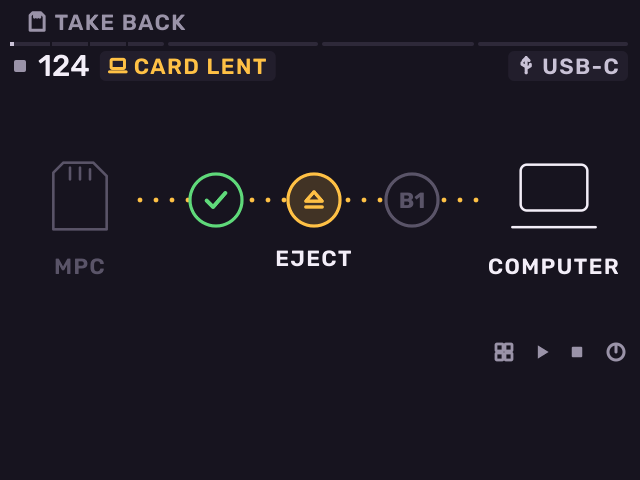
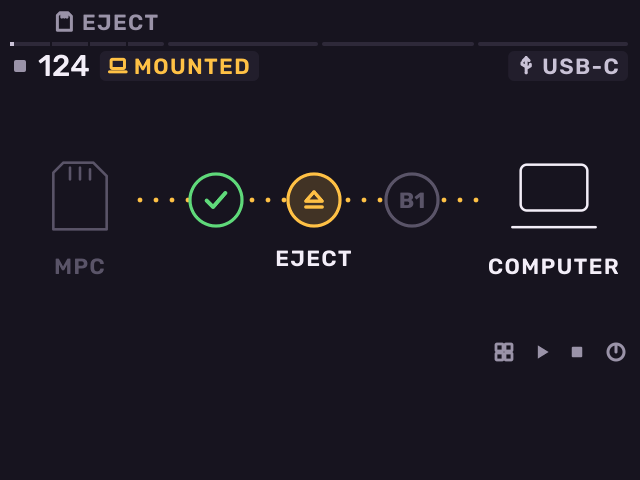
fix(melodee): card access test and guide screenshot use the mounted and eject wording

Changed region(s): [[0.0312, 0.0, 0.3125, 0.0625], [0.1875, 0.125, 0.4375, 0.1562]]

diff --git a/src/melodee/pages/scenes_page.cpp b/src/melodee/pages/scenes_page.cpp
@@ -1,0 +1,140 @@
+// SPDX-License-Identifier: AGPL-3.0-only
+// Copyright (C) 2026 Kerem Kilic (Ellic Studio)
+// SCENES (roadmap P5; B1 again on Patterns, B1 here back to it): the bank's sixteen scenes laid out
+// as the pads sit (pad 1 bottom left; Pad Bank another bank of
+// them), each a column of patterns, pattern n of every track. A pad launches its scene: pattern n on each track holding notes
+// there (and on the selected track) at the next bar, the scene's tempo with
+// it; Erase + pad clears its name and tempo. Push names the scene in hand,
+// the wheel sets its tempo (below 30 BPM: none of its own). The cards are the
+// selected track's pattern's follow action (model/follow.h): K1 FOLLOW, K2
+// AFTER (bars or plays), K3 CHANCE, Shift + K1 OR (the second action, on the
+// odds the first leaves); Shift + B3 ALL puts it on every track's pattern in its
+// column. Minus / Plus move the track. Beside the grid: the scene in hand's
+// name and tempo, the follow action in glyphs, and a dot a track (in the
+// scene, playing something else, stopped by a follow action).
+#include "melodee/pages/common.h"
+#include "melodee/pages/pages.h"
+#include "melodee/ui/widgets.h"
+#include <algorithm>
+
+namespace melodee {
+namespace {
+using namespace ui;
+
+juce::String tempo_text(unsigned tenths) {
+    return juce::String(tenths / 10) + (tenths % 10 ? "." + juce::String(tenths % 10) : juce::String());
+}
+
+// The follow action as glyphs: "NEXT", "→ 4 BARS", the second on its odds under it.
+void draw_follow(Paint& p, const Snapshot& s, float x, float y, float w, juce::Colour c) {
+    const auto& f = s.pattern.follow;
+    p.text("T" + juce::String(s.ui.track % track_count + 1) + " P" + juce::String(s.track().pattern % pattern_count + 1), x, y, w, 12,
+           caps_text(colour::mid));
+    if (!f.on()) {
+        icon(p, Icon::Loop, x, y + 16, 12, colour::dim, 1.3f); // it plays on
+        p.text("OFF", x + 16, y + 14, w - 16, 16, plain(colour::dim, type::body, Weight::Medium));
+        return;
+    }
+    juce::String after = juce::String(f.count) + (f.plays ? (f.count == 1 ? " PLAY" : " PLAYS") : (f.count == 1 ? " BAR" : " BARS"));
+    juce::String first = juce::String(follow_name(f.action)) + (f.chance < 100 ? " " + juce::String(f.chance) + "%" : juce::String());
+    p.text(first, x, y + 14, w, 16, p.fit(first, plain(c, type::body, Weight::SemiBold), w, type::floor));
+    if (f.other && f.chance < 100)
+        p.text(juce::String(follow_name(f.other)) + " " + juce::String(100 - f.chance) + "%", x, y + 30, w, 14, plain(colour::sec, type::small, Weight::Medium));
+    p.text(juce::String::fromUTF8("\xe2\x86\x92 ") + after, x, y + (f.other && f.chance < 100 ? 44 : 30), w, 14, plain(colour::sec, type::small, Weight::Medium));
+}
+
+void draw(Paint& p, const Snapshot& s) {
+    auto c = colour_of(s);
+    unsigned hand = s.ui.scene % pattern_count;
+    const auto& scene = s.project.scenes[hand];
+    Header h = header_of(s);
+    h.left.push_back(chip("SCENES", c));
+    h.left.push_back(bank_pill(s));
+    h.right.push_back(tag_of(s, s.ui.track));
+    SoftKeys keys {{"SCENES", "ROLL", "MOTION"}, 0, c}; // B1's second page: B1 again goes back to Patterns
+    keys.dots[0] = 2; keys.dot_at[0] = 1;
+    if (s.ui.shift) keys = SoftKeys {{"", "", "ALL"}, -1, c}; // Shift + B3: the follow onto every track's pattern
+    frame(p, s, keys, h);
+
+    // The scenes as the pads sit: pads 13-16 along the top, 1-4 along the bottom.
+    constexpr float cw = 41, ch = 32, gap = 3, grid_w = 4 * cw + 3 * gap, grid_h = 4 * ch + 3 * gap;
+    float gx = zone::pad, gy = zone::picture_y + (zone::picture_h - grid_h) / 2;
+    bool blink = (s.now / 150) % 2;
+    for (unsigned k = 0; k < pattern_pads; ++k) {
+        unsigned n = s.ui.pad_pattern(k), row = 3 - k / 4, column = k % 4, with = 0, on = 0, waiting = 0;
+        for (unsigned t = 0; t < track_count; ++t) {
+            const auto& tr = s.project.tracks[t];
+            if (!tr.used() || !s.sketches[t][n].notes) continue;
+            ++with;
+            bool live = s.playing ? s.playing_patterns[t] == n && s.positions[t] >= 0 : tr.pattern == n;
+            on += live;
+            waiting += s.playing && !live && tr.pattern == n;
+        }
+        float x = gx + column * (cw + gap), y = gy + row * (ch + gap);
+        bool playing = with && on == with;
+        juce::Colour text = with ? colour::sec : colour::dim;
+        if (playing) { p.fill(x, y, cw, ch, colour::text, 5); text = colour::bg; }
+        else if (waiting) { p.fill(x, y, cw, ch, colour::text.withAlpha(blink ? 0.4f : 0.12f), 5); p.ring(x, y, cw, ch, colour::text, 5, 1.5f); text = colour::text; }
+        else if (with) p.fill(x, y, cw, ch, colour::text.withAlpha(0.06f + 0.02f * float(std::min(with, 8u))), 5);
+        else p.fill(x, y, cw, ch, colour::quiet, 5);
+        if (n == hand) p.ring(x - 1, y - 1, cw + 2, ch + 2, c, 6, 1.5f);
+        const auto& sc = s.project.scenes[n];
+        p.text(juce::String(n + 1), x + 4, y + 2, cw - 8, 13, plain(text, type::small, Weight::Bold));
+        if (sc.tempo) p.fill(x + cw - 7, y + 6, 3, 3, playing ? colour::bg : colour::amber, 1.5f); // a tempo of its own
+        if (sc.name[0]) { // as much of its name as fits, as the MPC shortens names
+            auto style = plain(text, type::small, Weight::Medium);
+            juce::String name(sc.name);
+            while (name.length() > 1 && p.width(name, style) > cw - 6) name = name.dropLastCharacters(1);
+            p.text(name, x + 3, y + ch - 15, cw - 6, 13, style);
+        }
+    }
+
+    // Beside it: the scene in hand, its tempo, the follow action of the track's pattern, the tracks.
+    float x = gx + grid_w + 10, w = zone::width - zone::pad - x, y = gy;
+    juce::String title = "S" + juce::String(hand + 1) + (scene.name[0] ? " " + juce::String(scene.name) : juce::String());
+    p.text(title, x, y, w, 18, p.fit(title, plain(colour::text, type::list, Weight::SemiBold), w, type::floor));
+    icon(p, Icon::Metro, x, y + 21, 13, scene.tempo ? colour::amber : colour::dim, 1.3f);
+    p.text(scene.tempo ? tempo_text(scene.tempo) + " BPM" : juce::String::fromUTF8("\xe2\x80\x94"), x + 17, y + 19, w - 17, 16,
+           plain(scene.tempo ? colour::text : colour::dim, type::body, Weight::Medium));
+    p.fill(x, y + 40, w, 1, colour::line);
+    draw_follow(p, s, x, y + 46, w, c);
+    // A dot a track: in this scene (its colour), playing another pattern (dim), stopped by a follow action (a ring).
+    float dy = gy + grid_h - 9, dot = 6, step = w / 8;
+    for (unsigned t = 0; t < track_count; ++t) {
+        const auto& tr = s.project.tracks[t];
+        float tx = x + (t % 8) * step, ty = dy - (t < 8 ? 10 : 0);
+        if (!tr.used()) { p.fill(tx + 1, ty + 2, dot - 2, 1.5f, colour::line); continue; }
+        bool stopped = s.playing && !s.song_playing && s.positions[t] < 0;
+        bool in_scene = (s.playing ? s.playing_patterns[t] : tr.pattern) == hand;
+        if (stopped) p.ring(tx, ty, dot, dot, colour::rec, 3, 1.2f);
+        else p.fill(tx, ty, dot, dot, in_scene ? track_colour(t) : track_colour(t).withAlpha(0.3f), 3);
+    }
+}
+
+void pad(Context& c, unsigned pad, uint8_t, bool down) {
+    if (!down) return;
+    if (c.ui.erase) { c.clear_scene(c.ui.pad_pattern(pad)); return; } // Erase + pad: its name and tempo
+    c.launch_scene(c.ui.pad_pattern(pad));
+}
+
+// The wheel: the scene in hand's tempo by a BPM, from the tempo now when it has none; under 30, none of its own.
+void wheel(Context& c, int delta) {
+    unsigned hand = c.ui.scene % pattern_count;
+    int now = c.project.scenes[hand].tempo ? int(c.project.scenes[hand].tempo) : int(c.tempo_now()) / 10 * 10 - delta * 10;
+    c.set_scene_tempo(hand, now + delta * 10);
+}
+
+void push(Context& c) { c.name_scene(c.ui.scene); }
+
+void soft(Context& c, int key) {
+    if (c.ui.shift) { if (key == 2) { c.ui.shift_used = true; c.follow_to_column(); } return; } // ALL
+    if (key == 0) { c.open(PageId::Patterns); return; } // SCENES again: back to Patterns
+    seq_hub_soft(c, key);                                  // ROLL, MOTION
+}
+
+void nudge(Context& c, int way) { c.select_track(unsigned(std::clamp<int>(c.ui.track + way, 0, int(track_count) - 1))); }
+} // namespace
+
+const PageSpec scenes_page {draw, pad, wheel, push, soft, nudge};
+
+} // namespace melodee

diff --git a/src/melodee/shell/pad_lights.cpp b/src/melodee/shell/pad_lights.cpp
@@ -317,6 +317,27 @@ Look tracks_look(const PadScene& s, unsigned pad) {
     float m = meter(s, pad);
     return t.mix.solo ? white(between(dim, mid, m)) : track(pad, between(dim, mid, m));
 }
+// ---- SCENES (roadmap P5): a pad a scene, the column of patterns it launches. The one playing (every track with notes
+// there playing it) bright, one waiting for its bar blinking, the rest as many tracks as hold notes there; Erase held:
+// the scenes with a name or tempo to clear.
+Look scenes_look(const PadScene& s, unsigned pad) {
+    unsigned n = s.ui.pad_pattern(pad), with = 0, on = 0, waiting = 0; // the bank in view's
+    bool rolling = s.host.playing();
+    for (unsigned t = 0; t < track_count; ++t) {
+        const auto& tr = s.project.tracks[t];
+        if (!tr.used() || s.patterns.at[t][n].empty()) continue;
+        ++with;
+        bool live = rolling ? s.host.pattern_of(t) == n && !(s.host.stopped_tracks() >> t & 1) : tr.pattern == n;
+        on += live;
+        waiting += rolling && !live && tr.pattern == n;
+    }
+    if (s.ui.erase) return s.project.scenes[n].plain() ? Look {} : red(dim);
+    if (with && on == with) return white(full);
+    if (waiting) return (s.now / 150) % 2 ? white(mid) : white(faint);
+    if (!with) return s.project.scenes[n].plain() ? Look {} : white(faint);
+    return with == 1 ? white(faint) : with < 4 ? white(dim) : white(mid);
+}
+
 Look song_look(const PadScene& s, unsigned pad) {
     const auto& t = s.project.tracks[pad];
     if (!t.used()) return {};
@@ -759,6 +780,7 @@ void pad_looks(const PadScene& s, std::array<Look, 16>& out) {
             case PageId::Looper: look = loop_look(s, pad, false); break;
             case PageId::Tracks: look = tracks_look(s, pad); break;
             case PageId::Song: look = song_look(s, pad); break;
+            case PageId::Scenes: look = scenes_look(s, pad); break; // roadmap P5
             case PageId::StepEdit: look = s.ui.step_pads ? steps_look(s, pad) : step_edit_look(s, snd, pad); break; // the bar's steps, or the keys
             case PageId::Roll: look = roll_look(s, snd, roll, keys, pad); break;
             case PageId::TimeCorrect: look = time_correct_look(s, keys, pad); break;

diff --git a/src/melodee/shell/page_stack.cpp b/src/melodee/shell/page_stack.cpp
@@ -9,7 +9,7 @@ namespace {
 int page_group(PageId page) {
     switch (page) {
     case PageId::Stage: case PageId::Tracks: case PageId::Keys: case PageId::Pads: return 1;
-    case PageId::StepEdit: case PageId::Patterns: case PageId::Roll: case PageId::Motion: return 2;
+    case PageId::StepEdit: case PageId::Patterns: case PageId::Scenes: case PageId::Roll: case PageId::Motion: return 2;
     case PageId::Rack: case PageId::Sends: case PageId::Bus: case PageId::Master: case PageId::PadFx: return 3;
     case PageId::Trim: case PageId::PadPage: case PageId::PlayPage: case PageId::EnvelopePage:
     case PageId::FilterPage: case PageId::FollowPage: case PageId::CloudPage:
@@ -34,18 +34,18 @@ void push_back_stack(UiState& ui, PageId page) {
 
 PageId back_target(const UiState& ui) { return ui.back_depth ? ui.back_stack[ui.back_depth - 1u] : PageId::Stage; }
 
-bool seq_editor(PageId page) { return page == PageId::Patterns || page == PageId::Roll || page == PageId::Motion; }
+bool seq_editor(PageId page) { return page == PageId::Patterns || page == PageId::Scenes || page == PageId::Roll || page == PageId::Motion; }
 
 PageId seq_editor_page(const UiState& ui) {
-    static const PageId editors[] {PageId::Patterns, PageId::Roll, PageId::Motion};
+    static const PageId editors[] {PageId::Patterns, PageId::Roll, PageId::Motion, PageId::Scenes};
     unsigned kept = ui.seq_editor[ui.track % track_count];
-    if (kept >= 1 && kept <= 3) return editors[kept - 1];
+    if (kept >= 1 && kept <= 4) return editors[kept - 1];
     return PageId::Patterns;
 }
 
 void remember_editor(UiState& ui, PageId page) {
     if (!seq_editor(page)) return;
-    ui.seq_editor[ui.track % track_count] = uint8_t(page == PageId::Patterns ? 1 : page == PageId::Roll ? 2 : 3);
+    ui.seq_editor[ui.track % track_count] = uint8_t(page == PageId::Patterns ? 1 : page == PageId::Roll ? 2 : page == PageId::Motion ? 3 : 4);
 }
 
 PageId seq_tap_page(const UiState& ui) {

diff --git a/src/melodee/pages/patterns_page.cpp b/src/melodee/pages/patterns_page.cpp
@@ -9,7 +9,7 @@
 // Right: the eight tracks in view, each with the pattern it plays and how far along it is.
 // The wheel selects the track (the list on the right follows it, eight at a time). The selected track's pattern
 // in hand is the scene in view: cell n is scene n too, and Push launches it on every track; Shift + wheel moves the playhead by Q (stopped: where Shift + Play carries on from). Minus / Plus move the track. K1-K3: the pattern's length, Q, swing (Shift: any bars, time signature,
-// the metronome's level). B1-B3 PATTERNS / ROLL / MOTION; Shift + B1 SCENE (K1 the scene's tempo, Push
+// the metronome's level). B1-B3 PATTERNS / ROLL / MOTION (B1 again: SCENES); Shift + B1 SCENE (K1 the scene's tempo, Push
 // names it), Shift + B2 FOLLOW (the pattern's follow action, Shift + K1 OR, Push puts it on its column), Shift + B3
 // VARY (a variation of the pattern into the next empty one; the wheel picks, Push or B3 makes it).
 #include "melodee/pages/common.h"
@@ -125,6 +125,7 @@ void draw(Paint& p, const Snapshot& s) {
         h.right.push_back(pill(juce::String::fromUTF8(speed_name(s.track().speed)), c));
     h.right.push_back(tag_of(s, s.ui.track));
     SoftKeys keys {{"PATTERNS", "ROLL", "MOTION"}, 0, c};
+    keys.dots[0] = 2; // B1's two pages: Patterns, Scenes
     if (s.ui.sheet_open) keys = SoftKeys {{"BACK", "", "DO IT"}, 2, c, {KeyIcon::Back, KeyIcon::None, KeyIcon::Check}};
     else if (s.ui.shift) {
         keys = SoftKeys {{"SCENE", "FOLLOW", "VARY"}, -1, c};
@@ -194,7 +195,7 @@ void soft(Context& c, int key) {
         if (key == 2) { ui.patterns_cards = 0; ui.sheet_open = true; }
         return;
     }
-    if (key == 0) { ui.patterns_cards = 0; return; } // PATTERNS again: the pattern's cards
+    if (key == 0) { ui.patterns_cards = 0; c.open(PageId::Scenes); return; } // PATTERNS again: B1's second page, Scenes
     seq_hub_soft(c, key);
 }
 } // namespace

diff --git a/src/melodee/shell/bindings.cpp b/src/melodee/shell/bindings.cpp
@@ -620,6 +620,9 @@ std::array<Binding, 3> shift_bindings(const Project& project, const UiState& ui,
             return track.used() ? std::array<Binding, 3> {Binding {Kind::FollowOther, 0, 0, int(FollowAction::Count) - 1, pattern.follow.other}, Binding {}, Binding {}}
                                 : std::array<Binding, 3> {};
         return pattern_shift_cards(project, ui, pattern);
+    case PageId::Scenes: // roadmap P5: Shift + K1 the follow action's second, on the odds the first leaves
+        if (!track.used()) return {};
+        return {Binding {Kind::FollowOther, 0, 0, int(FollowAction::Count) - 1, pattern.follow.other}, Binding {}, Binding {}};
     case PageId::Song: { // roadmap P5: the tempo lane at the cursor's bar: its tempo, and (a point there) its shape
         if (ui.song_export) return {};
         const auto& lane = project.song.tempo;
@@ -822,6 +825,12 @@ std::array<Binding, 3> base_bindings(const Project& project, const UiState& ui, 
                     Binding {Kind::FollowChance, 0, 0, 100, f.chance}};
         }
         return pattern_cards(project, pattern);
+    }
+    case PageId::Scenes: { // roadmap P5: the selected track's pattern's follow action, after how long, on what odds
+        if (!track.used()) return {};
+        const auto& f = pattern.follow;
+        return {Binding {Kind::FollowAction, 0, 0, int(FollowAction::Count) - 1, f.action}, Binding {Kind::FollowAfter, 0, 0, 127, follow_after_card(f)},
+                Binding {Kind::FollowChance, 0, 0, 100, f.chance}};
     }
     case PageId::ModPage: { // roadmap P4: the modulator in hand, its rate (or a follower's rise), the target in hand's depth; a macro, its value, a target's high
         if (ui.mod_view == 1) {

diff --git a/src/melodee/shell/lights.cpp b/src/melodee/shell/lights.cpp
@@ -441,7 +441,7 @@ void Shell::lights(SurfaceLights& lights, uint32_t now) {
     // Bank lights A-H: with Seq held or on Patterns, the bank of patterns in view; else the sampler track's bank in view, or the Drums
     // pads' (A-D).
     for (unsigned bank = 0; bank < surface_bank_lights; ++bank)
-        lights.bank(bank, ui.seq_held || ui.page == PageId::Patterns ? bank == ui.pattern_bank % pattern_banks
+        lights.bank(bank, ui.seq_held || ui.page == PageId::Patterns || ui.page == PageId::Scenes ? bank == ui.pattern_bank % pattern_banks
                                       : (track.engine == EngineKind::Sampler && bank == track.bank % sampler_banks) || (drum_pads(track) && bank == drum_bank(track)));
     { // The meters beside the screen, as on the MPC: the input source while Record or Input Config is in view or a
       // take waits or runs (what is about to be sampled), else main out.
@@ -516,7 +516,7 @@ void Shell::lights(SurfaceLights& lights, uint32_t now) {
     }
     bool sound_hub = ui.page == PageId::Stage || is_sampler_page(ui.page) || ui.sample_held; // Sample's hub (docs/HUBS_PLAN.md)
     on(B::Sample, sound_hub || ui.page == PageId::InputConfig);
-    on(B::Seq, ui.page == PageId::StepEdit || ui.page == PageId::Patterns || ui.page == PageId::Roll || ui.page == PageId::Motion); // its hub
+    on(B::Seq, ui.page == PageId::StepEdit || ui.page == PageId::Patterns || ui.page == PageId::Scenes || ui.page == PageId::Roll || ui.page == PageId::Motion); // its hub
     on(B::SampleSelect, ui.page == PageId::Sounds || ui.page == PageId::Samples);
     on(B::Chop, ui.page == PageId::Chop);
     on(B::NoteRepeat, track.arp && ui.page != PageId::Song); // on Song it repeats the clip

diff --git a/src/melodee/shell/pad_bank.cpp b/src/melodee/shell/pad_bank.cpp
@@ -46,7 +46,7 @@ void pad_bank_button(Context& c, bool pressed) {
     ui.pad_bank = false;
     if (ui.pad_bank_used) return; // held for a pad, a jump or a copy: no step
     if (ui.shift) ui.shift_used = true;
-    if (ui.seq_held || ui.page == PageId::Patterns) { step_pattern_bank(c, ui.shift ? -1 : 1); return; } // the patterns' bank (Seq's layer)
+    if (ui.seq_held || ui.page == PageId::Patterns || ui.page == PageId::Scenes) { step_pattern_bank(c, ui.shift ? -1 : 1); return; } // the patterns' bank (Seq's layer)
     if (ui.page == PageId::Punch) { c.step_punch_bank(ui.shift ? -1 : 1); return; } // the next bank of punches
     if (c.track().engine == EngineKind::Sampler || drum_pads(c.track())) { step_bank(c, ui.shift ? -1 : 1); say_bank(c); return; }
     if (ui.page == PageId::Roll) step_octave(c, ui.shift ? -1 : 1); // Roll on a synth: −/+ are its pitch
@@ -56,7 +56,7 @@ bool pad_bank_move(Context& c, int way) {
     auto& ui = c.ui;
     if (!ui.pad_bank || !way) return false;
     ui.pad_bank_used = true;
-    if (ui.seq_held || ui.page == PageId::Patterns) step_pattern_bank(c, way);
+    if (ui.seq_held || ui.page == PageId::Patterns || ui.page == PageId::Scenes) step_pattern_bank(c, way);
     else if (ui.page == PageId::Punch) c.step_punch_bank(way);
     else if (c.track().engine == EngineKind::Sampler || drum_pads(c.track())) { step_bank(c, way); say_bank(c); }
     else c.notice("Banks: kit and Drums tracks");

diff --git a/src/melodee/tools.cpp b/src/melodee/tools.cpp
@@ -2238,6 +2238,16 @@ const Preview previews[] {
          auto& f = shell.patterns().at[2][1].follow;
          f.action = uint8_t(FollowAction::Again); f.other = uint8_t(FollowAction::Stop); f.chance = 50; f.count = 2; f.plays = true;
      }},
+    // Roadmap P5: SCENES (B1 again on Patterns), the bank's scenes and the selected track's pattern's follow action.
+    {"scenes", [](Shell& shell, Snapshot& s) {
+         s.ui.page = PageId::Scenes; s.ui.track = 2; s.ui.scene = 1; s.playing = true;
+         s.project.scenes[0].set_name("INTRO"); s.project.scenes[1].set_name("VERSE"); s.project.scenes[1].tempo = 1240;
+         s.project.scenes[2].set_name("DROP"); s.project.scenes[2].tempo = 1280; s.project.scenes[5].set_name("BREAK");
+         s.project.tracks[2].pattern = 1;
+         for (unsigned t = 0; t < track_count; ++t) { s.playing_patterns[t] = t == 2 ? 1 : 0; s.positions[t] = t == 5 ? -1 : int(t * sixteenth_ticks); }
+         auto& f = shell.patterns().at[2][1].follow;
+         f.action = uint8_t(FollowAction::Next); f.other = uint8_t(FollowAction::Any); f.chance = 75; f.count = 4;
+     }},
     {"stepeditshift", [](Shell& shell, Snapshot& s) { // Shift held on Step Edit: PADS, TIE, INSERT; the pattern's length, Q, time signature
          step_edit_kit(shell, s);
          s.ui.shift = true;

diff --git a/src/melodee/shell/button_jobs.cpp b/src/melodee/shell/button_jobs.cpp
@@ -61,7 +61,7 @@ bool button_has_shift_job(const Project& project, const UiState& ui, SurfaceButt
         if (kind == StageKind::Trim && instrument) return false; // ZONES (round 3)
         return kind == StageKind::Trim || kind == StageKind::Layers;
     }
-    case B::TopRight: return (ui.page == PageId::Chop && kit) || ui.page == PageId::Tracks || ui.page == PageId::Punch || ui.page == PageId::Patterns || ui.page == PageId::StepEdit; // Merge; COPY on Tracks; QUANTIZE on Pad FX; VARY on Patterns; INSERT on Step Edit
+    case B::TopRight: return (ui.page == PageId::Chop && kit) || ui.page == PageId::Tracks || ui.page == PageId::Punch || ui.page == PageId::Patterns || ui.page == PageId::Scenes || ui.page == PageId::StepEdit; // Merge; COPY on Tracks; QUANTIZE on Pad FX; VARY on Patterns; ALL on Scenes; INSERT on Step Edit
     case B::SampleRecord: return kit;                                            // Audio Recall
     case B::Erase: // Copy: what the page holds (shell/erase_copy.h), or off
         return ui.copying != UiState::Copying::Off || copy_here(project, ui, kit_pads, key_pads) != CopyHere::None;

diff --git a/src/melodee/pages/pages.h b/src/melodee/pages/pages.h
@@ -32,7 +32,7 @@ extern const PageSpec stage_page, keys_page, sounds_page, edit_page, roll_page, 
     rack_page, sends_page, bus_page, master_page,
     pads_page, samples_page, chop_page,
     record_page, project_page, tempo_page,
-    pad_edit_page, play_edit_page, envelope_page, filter_page, follow_page, cloud_page, layers_page, mod_page,
+    pad_edit_page, play_edit_page, envelope_page, filter_page, follow_page, cloud_page, layers_page, mod_page, scenes_page,
     punch_page, settings_page, about_page, pad_fx_page, time_correct_page, step_edit_page,
     pad_mix_page, pad_filter_page, filter_env_page, knob_fx_page, compressor_page, flex_beat_page,
     fader_page, midi_config_page, card_access_page, tracks_page, looper_page, rec_quantize_page, plugins_page,

diff --git a/src/melodee/shell/pad_context.h b/src/melodee/shell/pad_context.h
@@ -55,6 +55,7 @@ inline PadContext pad_context(const UiState& ui, const Track& track, const PadFa
     if (ui.shift && ui.page == PageId::Looper && pad % 16 >= 8 && pad % 16 < 12) return C::LoopNow;
     if (ui.shift) return C::Shift;
     if (ui.page == PageId::Patterns) return C::SeqLayer; // Patterns' pads are the track's patterns, as Seq held's
+    if (ui.page == PageId::Scenes) return C::Page;       // Scenes' pads launch scenes; Erase + pad clears one
     if (ui.resample_pick) return C::ResamplePick;
     if (facts.kit_pads && ui.copying == UiState::Copying::Pads) return C::PadCopy;
     if (ui.copying == UiState::Copying::Keys && (facts.key_pads || ui.page == PageId::Roll || (ui.page == PageId::StepEdit && !ui.step_pads)))

diff --git a/src/melodee/shell/ui_state.h b/src/melodee/shell/ui_state.h
@@ -31,6 +31,7 @@ enum class PageId : uint8_t { Stage, Keys, Sounds, Edit, Roll, Motion, Patterns,
                             LayersPage,                        // roadmap P3: a kit pad's four layers
                             ModPage,                           // roadmap P4: modulators and macros (MOTION again on Motion)
                             Print,                             // freeze plan F2c: the PRINT sheet (Sample Record on a plug-in or MIDI track)
+                            Scenes,                            // roadmap P5: the bank's scenes (B1 again on Patterns)
                             Count };
 
 // Takeover (shell/takeover.h): a pot or the fader drives its value once it has
